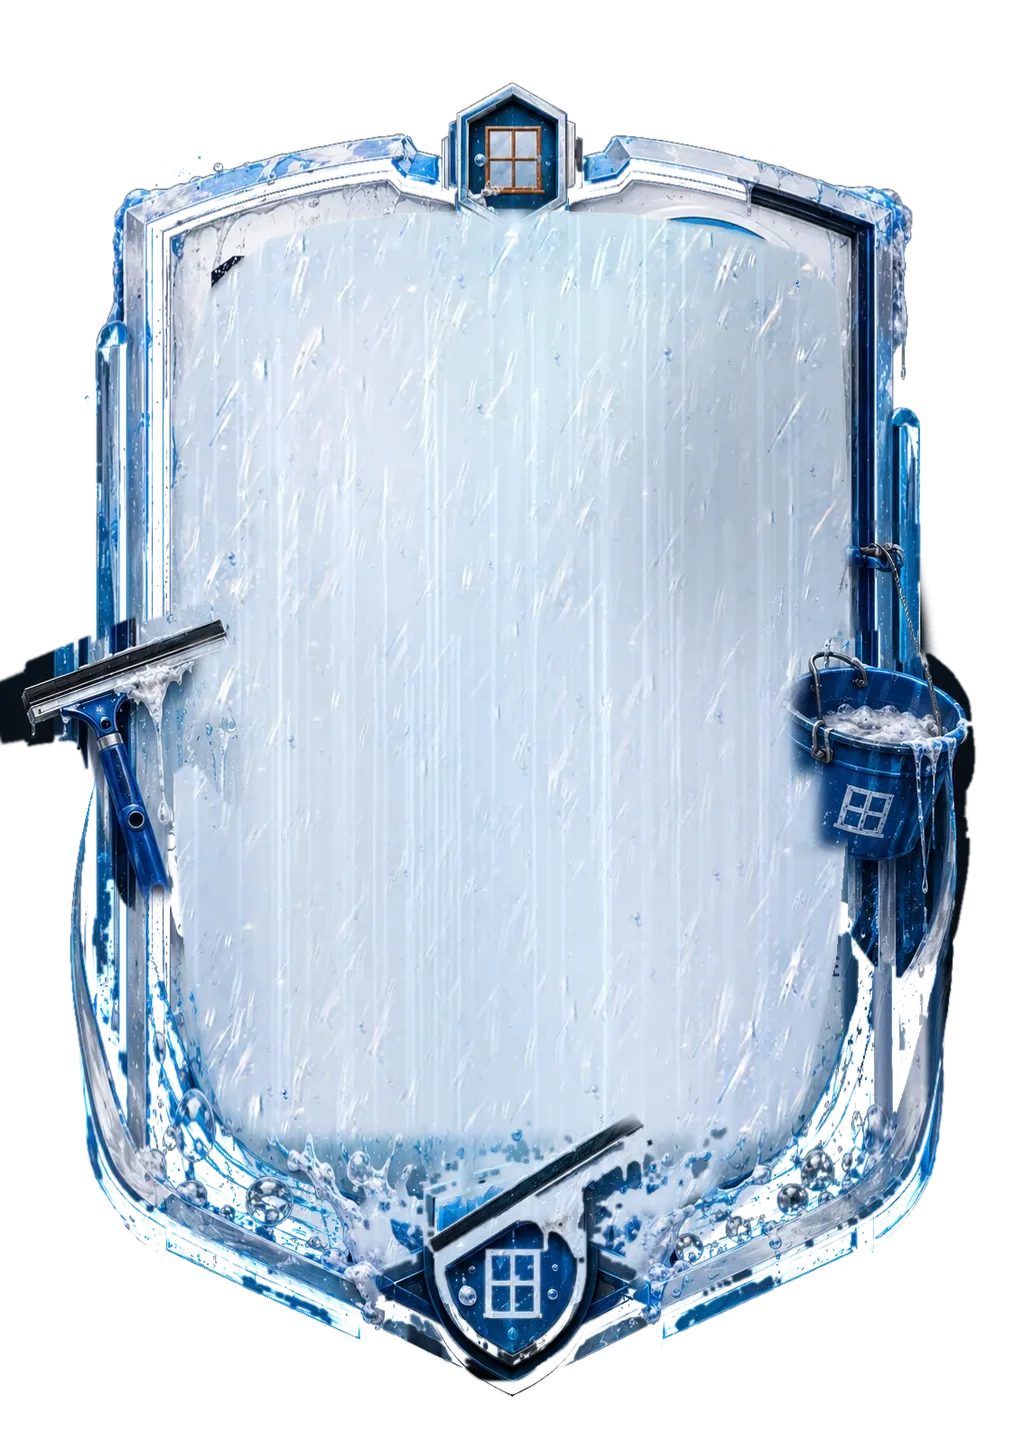
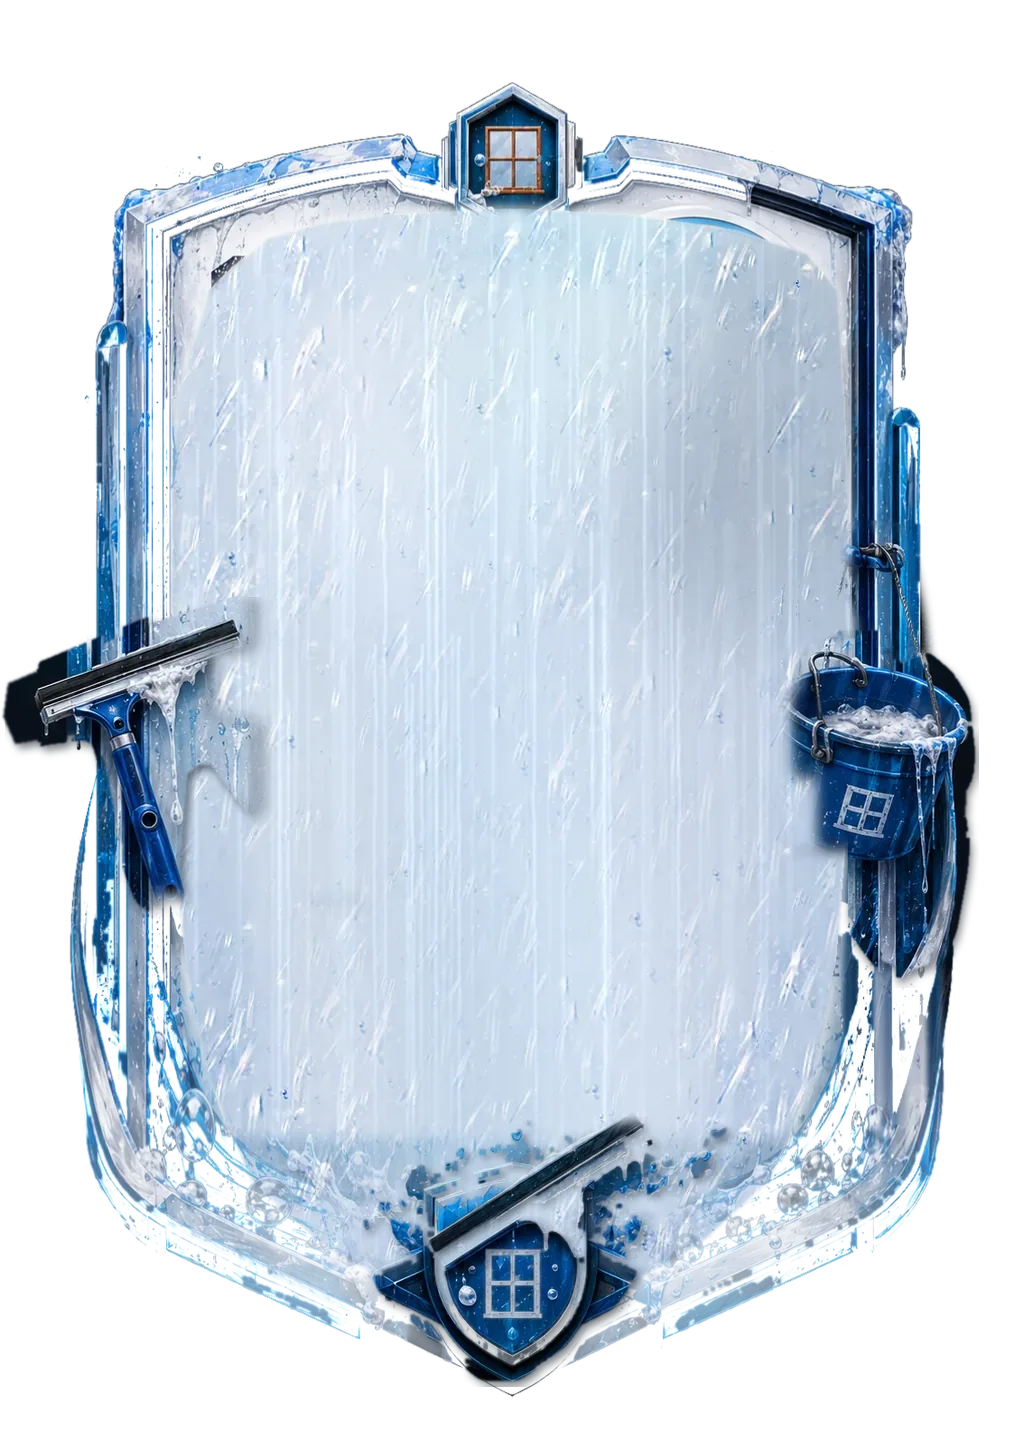
Compacte Glazenwasser op de correctiebriefing: leesbare bodem, klem op de rail
- Heldere zone achter de divisieregel (briefing §1): het water blijft aan de
  flanken en onder de punt, maar wijkt in het midden waar FutKaart
  "GLAZENWASSER II" zet — een gaussische opening in de ringsnede.
- De interieursnede van de compacte master gaat tot de glascontour zonder
  erosie (§3): de donkere kant van de smalle natte band las op kaartmaat als
  een veeg op het glas onder de linkerschouder; de randcondens van het
  glasvlak draagt de natte overgang hier alleen.
- De trekker staat op de compacte kaart minder ver naar buiten (−0,02 tegen
  −0,035 op de brede kaart), zodat de klem óp de rail rust in plaats van
  ernaast te zweven (§2).
- Contactschaduwen onder trekker, emmer en onderschild in de compacte master
  (§5): zwart-geblurde kopie, fractie lager-rechts — voorwerpen rusten op de
  kaart in plaats van erop geplakt te staan.

Claude-Session: https://claude.ai/code/session_01LF6PJyL4wgg3AKab68Jdvo

diff --git a/scripts/glazenwasser-onderdelen.py b/scripts/glazenwasser-onderdelen.py
@@ -809,7 +809,10 @@ MASTER_VAK = (72, 160, 880, 1223)
 MASTER_LAGEN = (
     # naam, z-volgorde
     ("ophanging", (0.0, 0.0, 1.0)),
-    ("trekker-boven", (-0.035, 0.012, 1.12)),
+    # Minder ver naar buiten dan op de brede kaart (−0,02 tegen −0,035): op de
+    # compacte kaart moet de klem óp de rail blijven rusten — verder naar
+    # buiten leek de wisser los naast de kaart te zweven.
+    ("trekker-boven", (-0.02, 0.012, 1.12)),
     ("emmer", (0.004, -0.022, 1.0)),
     ("onderschild", (0.0, 0.012, 1.0)),
 )
@@ -1039,7 +1042,8 @@ def compacte_master() -> None:
 
     def plaats(pad: Path, vak: tuple[float, float, float, float],
                schaal: float = 1.0,
-               masker: np.ndarray | None = None) -> None:
+               masker: np.ndarray | None = None,
+               schaduw: bool = False) -> None:
         left, top, breedte, hoogte = vak
         left -= breedte * (schaal - 1.0) / 2.0
         top -= hoogte * (schaal - 1.0) / 2.0
@@ -1047,6 +1051,17 @@ def compacte_master() -> None:
         h = max(1, int(round(hoogte * schaal * vh)))
         laag = Image.open(pad).convert("RGBA").resize((b, h), Image.LANCZOS)
         px, py = int(round(vx + left * vw)), int(round(vy + top * vh))
+        if schaduw:
+            # Contactschaduw (briefing §5): dezelfde vorm, zwart en geblurd,
+            # een fractie lager-rechts — dát zet een voorwerp óp de kaart in
+            # plaats van ernaast. Spiegel van `schaduw` op de brede kaart.
+            a = laag.split()[3].filter(ImageFilter.GaussianBlur(4.0))
+            zw = Image.new("RGBA", laag.size, (5, 14, 26, 0))
+            zw.putalpha(Image.fromarray(
+                (np.asarray(a).astype(np.float32) * 0.55).astype(np.uint8)
+            ))
+            boven.alpha_composite(zw, (px + max(1, b // 90),
+                                       py + max(2, h // 60)))
         if masker is None:
             boven.alpha_composite(laag, (px, py))
             return
@@ -1072,8 +1087,19 @@ def compacte_master() -> None:
         fill=255,
     )
     pm = np.asarray(poly) > 127
-    snede = erode(pm, 12).astype(np.float32)
+    # Zonder erosie: op de compacte kaart gaat óók de smalle natte band weg.
+    # Op kaartmaat las de donkere kant van die band als een veeg op het glas
+    # onder de linkerschouder (briefing §3); de randcondens van het glasvlak
+    # draagt de natte overgang hier alleen.
+    snede = pm.astype(np.float32)
     snede[int(vy + 0.80 * vh):] = 0.0
+    # Heldere zone achter de divisieregel (briefing §1): het water blijft aan
+    # de flanken en onder de punt, maar wijkt in het midden waar FutKaart
+    # "GLAZENWASSER II" zet — dezelfde rust die de referentie daar toont.
+    xs = (np.arange(MASTER_DOEK[0]) - (vx + 0.5 * vw)) / (0.30 * vw)
+    ys = (np.arange(MASTER_DOEK[1]) - (vy + 0.872 * vh)) / (0.085 * vh)
+    helder = np.exp(-(xs[None, :] ** 2 + ys[:, None] ** 2) / 2.0)
+    snede = np.clip(snede + 0.9 * helder.astype(np.float32), 0, 1)
     snede = np.asarray(
         Image.fromarray((snede * 255).astype(np.uint8), "L")
         .filter(ImageFilter.GaussianBlur(7.0))
@@ -1086,6 +1112,7 @@ def compacte_master() -> None:
             UIT / f"gw-{naam}.webp",
             (left + dx, _naar_kaart_y(top) + dy, breedte, naar_kaart_h(hoogte)),
             schaal=schaal,
+            schaduw=naam in ("trekker-boven", "emmer", "onderschild"),
         )
 
     # Het natte glas als onderste laag, strak binnen de glascontour; ring en
